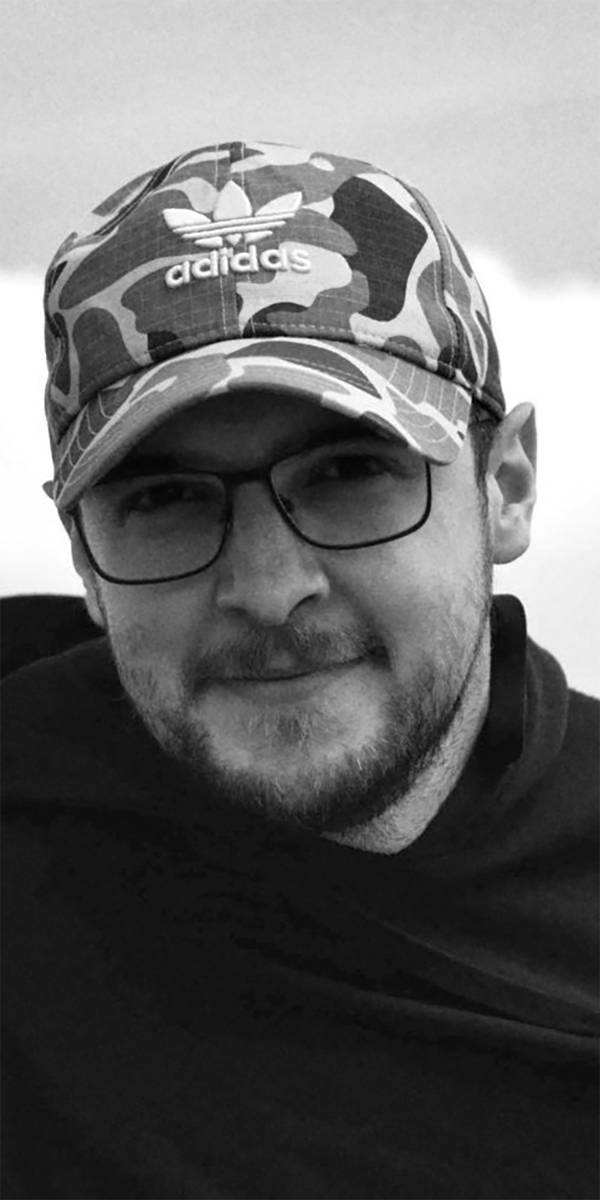
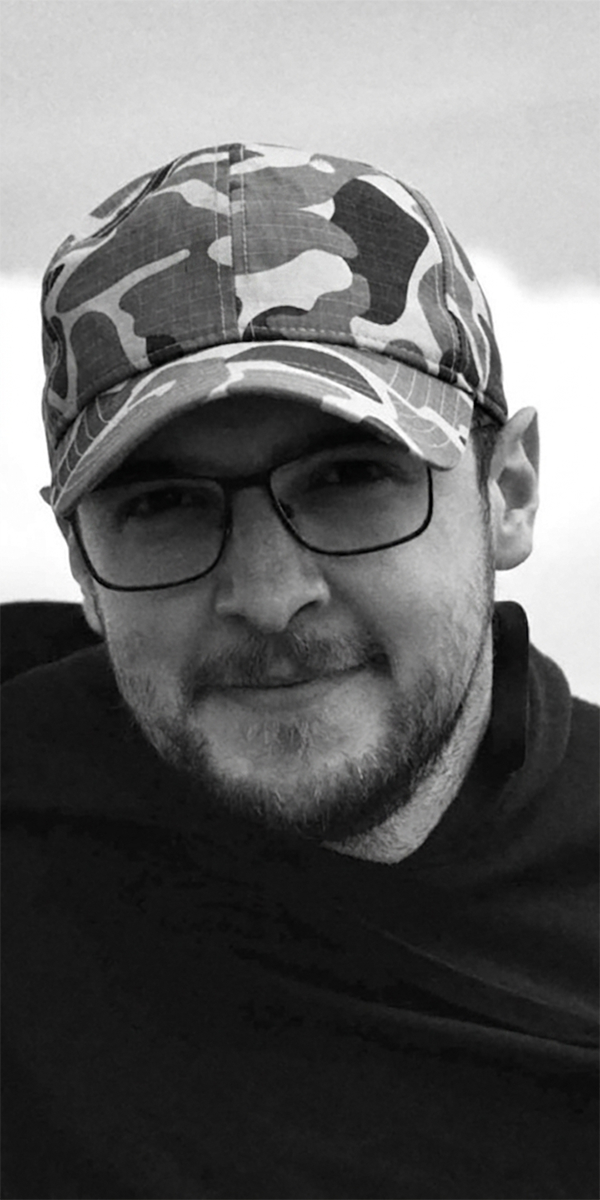
Backlight

diff --git a/src/styles/global.css b/src/styles/global.css
@@ -62,7 +62,7 @@ html {
 }
 
 body {
-  background: linear-gradient(to right, #1c160a, #060403 30%, #060403 70%, #1c160a);
+  background: linear-gradient(110deg, #241c0d, #060403 25%, #060403 60%, #181209);
   background-attachment: fixed;
   color: var(--color-text);
   font-family: var(--font-body);

diff --git a/src/content/guitars/greyline-bass.md b/src/content/guitars/greyline-bass.md
@@ -1,7 +1,7 @@
 ---
 title: "Greyline Bass"
 type: "bass"
-status: "available"
+status: "sold"
 year: 2025
 strings: 4
 electronics: "active"
